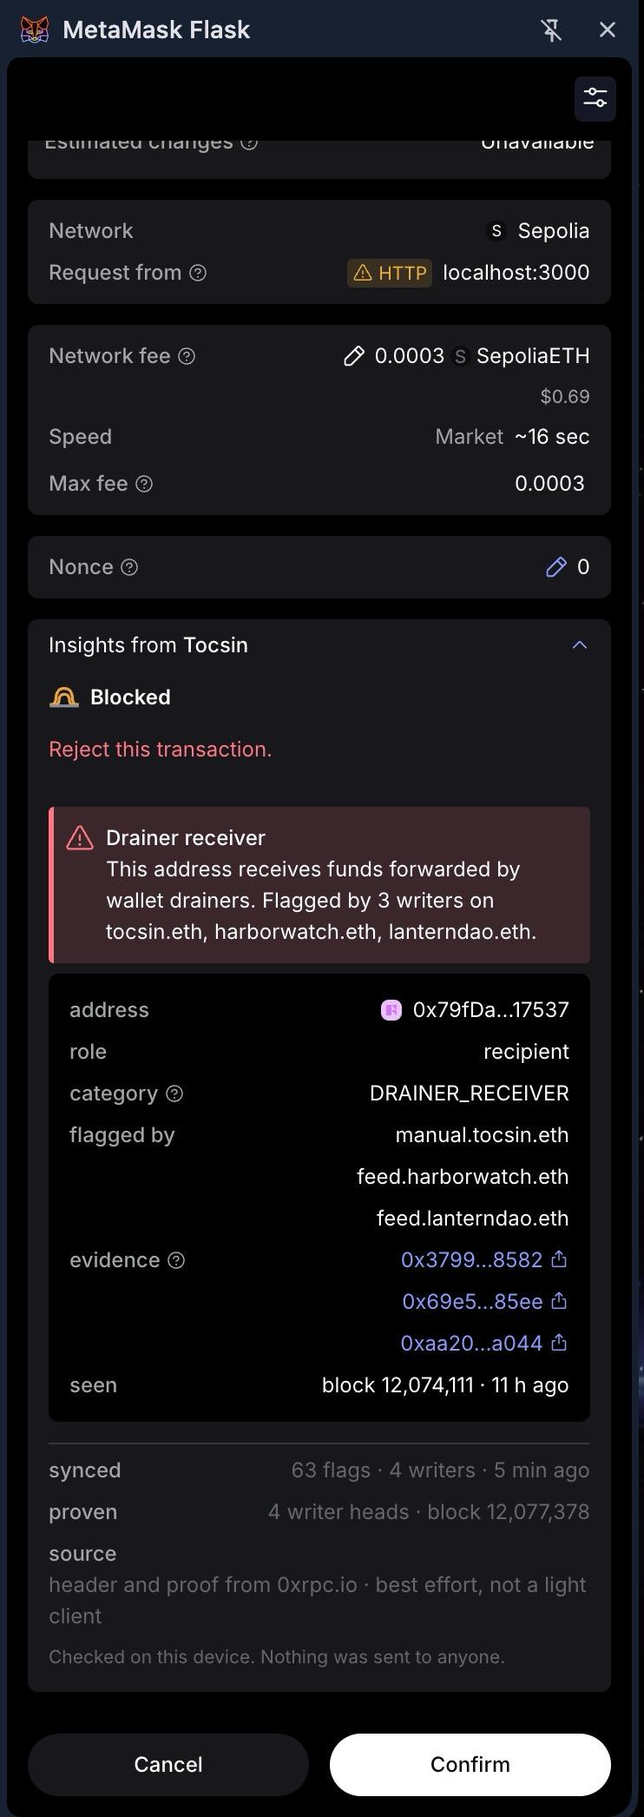
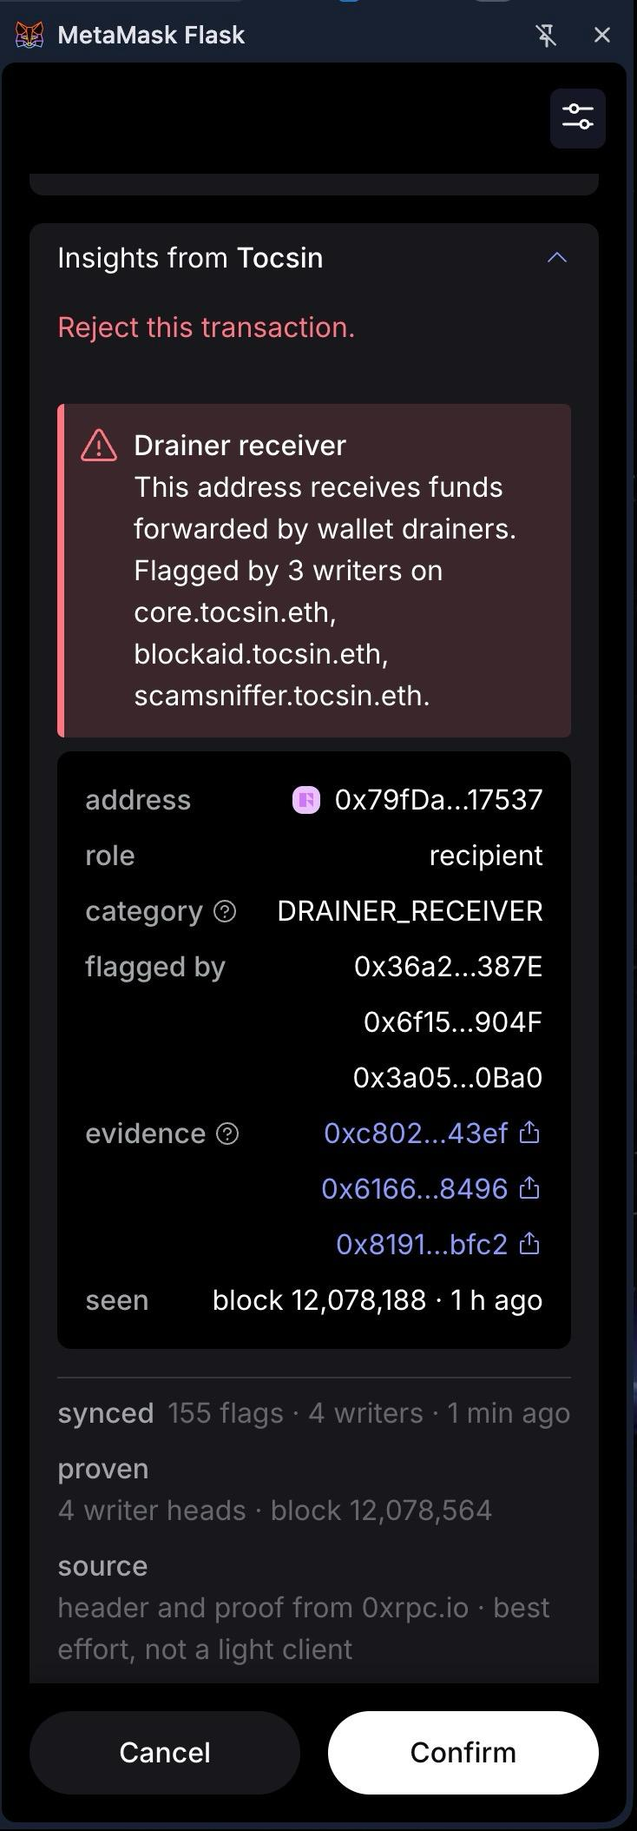
site: refresh showcase and wallet captures

diff --git a/design/kit/showcase.html b/design/kit/showcase.html
@@ -76,100 +76,111 @@
   .board.paper .sub { color: var(--ink-700); }
   .board.paper .top .label, .board.paper .foot { color: var(--ink-400); }
   .board.paper .pair figcaption { color: var(--ink-700); }
+
+  /* November 7 captures: original pixels, framed in CSS. */
+  .board { padding: 120px 96px; }
+  .top { top: 46px; }
+  .foot { bottom: 40px; font-size: 13px; gap: 30px; }
+  figure { margin: 0; }
+  figcaption { margin-top: 18px; font: 16px var(--mono); color: var(--paper-200); }
+  .capture { overflow: hidden; background: #111215; border-radius: 12px; }
+  .capture img { display: block; width: 100%; height: auto; transform: translateY(var(--y, 0)); }
+  .snap-hero { width: 430px; height: 760px; --y: -145px; }
+  .meta-line { margin-top: 40px; font: 15px var(--mono); color: var(--ink-400); }
+  .comparison { grid-template-columns: 440px 1fr; gap: 48px; }
+  .comparison h1 { font-size: 58px; }
+  .comparison .sub { font-size: 23px; }
+  .pair { gap: 28px; }
+  .pair .capture { width: 430px; height: 660px; }
+  .pair .pass-shot { --y: -420px; }
+  .pair .block-shot { --y: -148px; }
+  .pair figcaption { display: flex; align-items: center; gap: 12px; font-size: 15px; }
+  .status { width: 7px; height: 7px; display: inline-block; background: var(--paper-100); }
+  .status.block { background: var(--alert); }
+  .anatomy { grid-template-columns: 500px 1fr; gap: 100px; }
+  .anatomy .capture { width: 500px; height: 500px; --y: -590px; }
+  .anatomy h1 { font-size: 70px; margin-bottom: 36px; }
+  .co p { font-size: 21px; line-height: 1.4; color: var(--paper-200); max-width: 31ch; }
+  .co .label { margin-bottom: 6px; }
+  .kohaku { grid-template-columns: 1fr 600px; }
+  .kohaku h1 { font-size: 76px; }
+  .wallet-shot { width: 600px; position: relative; border-radius: 14px; overflow: hidden; background: #111; }
+  .wallet-shot img { position: absolute; display: block; max-width: none; height: auto; top: 0; }
+  .wallet-shot.warn { height: 796px; }
+  .wallet-shot.warn img { width: 238.139535%; left: -138.139535%; }
+  .wallet-shot.blocked { height: 742px; }
+  .wallet-shot.blocked img { width: 233.789954%; left: -133.789954%; }
+  .policy { margin-top: 42px; display: grid; gap: 16px; max-width: 520px; }
+  .policy-row { display: flex; justify-content: space-between; gap: 24px; padding-top: 16px; border-top: var(--hair-strong); color: var(--paper-200); font-size: 20px; }
+  .policy-row b { color: var(--signal); font-weight: 500; }
+  .policy-row .red { color: var(--alert); }
+  .board.demo { display: block; }
+  body.one .board.demo.on { display: block; }
+  .demo .intro { display: flex; align-items: end; justify-content: space-between; gap: 64px; margin: 14px 0 24px; }
+  .demo h1 { font-size: 58px; }
+  .demo .sub { font-size: 21px; max-width: 34ch; margin: 0; }
+  .demo-screens { display: grid; grid-template-columns: 960px 1fr; gap: 32px; align-items: center; }
+  .demo-main img, .demo-side img { display: block; width: 100%; height: auto; border-radius: 10px; }
+  .demo-side p { font-size: 20px; line-height: 1.45; color: var(--paper-200); margin: 24px 0 0; }
+  .demo-side .label { margin-bottom: 16px; }
+  .demo-side .url { color: var(--signal); font-family: var(--mono); font-size: 15px; overflow-wrap: anywhere; margin-top: 28px; }
+
 </style>
 </head>
 <body>
 
-<!-- 01 cover: the moment the wallet says no -->
 <section class="board" data-b="1">
   <canvas class="field" data-state="blocked"></canvas>
-  <div class="top"><span class="wordmark"><img src="mark.svg" alt="">tocsin</span><span class="label">01 / 06 · Sepolia demo · example writers</span></div>
-  <div>
-    <h1 style="font-size:84px">Scam warnings,<br>verified <em>on chain.</em></h1>
-    <p class="sub">Choose whose reports to follow. Verify the published record. Check recipients on your device before you sign.</p>
-  </div>
-  <div class="panel" style="--y:-440px"><img src="../screens/raw/snap-block.jpg?v=3" alt="MetaMask Flask transaction insight from Tocsin: Blocked, drainer receiver"></div>
-  <div class="chip" style="right: 56px; top: 150px"><div class="label">flagged by</div><div class="v">Example writer identities</div></div>
-  <div class="chip" style="right: 520px; bottom: 150px"><div class="label">checked</div><div class="v">Recipient checked locally</div></div>
-  <div class="foot"><span>tocsin-eth.vercel.app/demo</span><span>github.com/easonchai/tocsin</span></div>
+  <div class="top"><span class="wordmark"><img src="mark.svg" alt="">tocsin</span><span class="label">01 / 06 · MetaMask Snap · Sepolia</span></div>
+  <div><h1 style="font-size:84px">Scam warnings.<br>Before you<br><em>sign.</em></h1><p class="sub">An onchain report registry, trust lists you choose, and a warning inside your wallet.</p><div class="meta-line">Real capture · MetaMask Flask + Tocsin Snap</div></div>
+  <div class="capture snap-hero"><img src="../screens/raw/snap-block.jpg?v=4" width="734" height="2108" alt="Tocsin's drainer-receiver warning in MetaMask Flask, with writers and evidence links"></div>
+  <div class="foot"><span>Sepolia demo · example publisher names · RPC-supplied headers</span><span>tocsin.eth</span></div>
 </section>
-
-<!-- 02 pass vs block -->
-<section class="board" data-b="2" style="grid-template-columns: 1fr auto; padding-top: 120px">
+<section class="board comparison" data-b="2">
   <canvas class="field" data-state="idle"></canvas>
-  <div class="top"><span class="wordmark"><img src="mark.svg" alt="">tocsin</span><span class="label">02 / 06 · same send, two recipients</span></div>
-  <div>
-    <h1 style="font-size:52px">Same send.<br>Lists <em>you</em> chose.<br>One verdict.</h1>
-    <p class="sub">The wallet checks a locally synced log against your chosen lists. No per-address security lookup is needed; syncing still uses the network.</p>
-  </div>
+  <div class="top"><span class="wordmark"><img src="mark.svg" alt="">tocsin</span><span class="label">02 / 06 · two recipients, two results</span></div>
+  <div><h1>Same wallet.<br>Same lists.<br>Different<br><em>recipients.</em></h1><p class="sub">The Snap checks the recipient against your synced reports. It shows a warning when your chosen sources flag an address.</p><div class="meta-line">No matching report ≠ a safety guarantee.</div></div>
   <div class="pair">
-    <figure><div class="panel sm" style="--y:-600px"><img src="../screens/raw/snap-pass.jpg?v=3" alt="No flags"></div><figcaption><b class="pass">Pass</b>no matching flag</figcaption></figure>
-    <figure><div class="panel sm" style="--y:-390px"><img src="../screens/raw/snap-block.jpg?v=3" alt="Blocked"></div><figcaption><b class="block">Block</b>drainer receiver</figcaption></figure>
+    <figure><div class="capture pass-shot"><img src="../screens/raw/snap-pass.jpg?v=4" width="740" height="2090" alt="MetaMask Snap: recipient is not on any list the user follows"></div><figcaption><span class="status"></span>No matching flag</figcaption></figure>
+    <figure><div class="capture block-shot"><img src="../screens/raw/snap-block.jpg?v=4" width="734" height="2108" alt="MetaMask Snap advises rejecting a transaction to a reported drainer receiver"></div><figcaption><span class="status block"></span>Reject recommendation</figcaption></figure>
   </div>
-  <div class="foot"><span>Illustrative Snap screens · example writers</span><span>tocsin.eth</span></div>
+  <div class="foot"><span>Sepolia captures · example publisher names · RPC-supplied headers</span><span>tocsin.eth</span></div>
 </section>
-
-<!-- 03 anatomy of a flag -->
-<section class="board" data-b="3" style="grid-template-columns: auto 1fr; gap: 96px">
+<section class="board anatomy" data-b="3">
   <canvas class="field" data-state="idle"></canvas>
-  <div class="top"><span class="wordmark"><img src="mark.svg" alt="">tocsin</span><span class="label">03 / 06 · one flag, opened</span></div>
-  <div class="panel" style="--y:-700px; height: 600px"><img src="../screens/raw/snap-block.jpg?v=3" alt="Flag detail"></div>
-  <div class="callouts">
-    <h1 style="font-size:82px;margin-bottom:12px">Every flag carries<br>its receipts.</h1>
-    <div class="co"><div class="label">who said it</div><p>Each report is attributed to its writer. <span>The names in this demo are examples.</span></p></div>
-    <div class="co"><div class="label">why</div><p>A category your wallet understands: drainer receiver. <span>Warn or block is your policy, not ours.</span></p></div>
-    <div class="co"><div class="label">proof</div><p>Evidence links let you inspect the source. <span>Proof of publication does not prove a report is true.</span></p></div>
-    <div class="co"><div class="label">when</div><p>The report records when it was seen. <span>Published flags remain in the append-only log.</span></p></div>
-  </div>
-  <div class="foot"><span>tocsin.eth · sepolia</span><span>github.com/easonchai/tocsin</span></div>
+  <div class="top"><span class="wordmark"><img src="mark.svg" alt="">tocsin</span><span class="label">03 / 06 · inspect the report</span></div>
+  <figure><div class="capture"><img src="../screens/raw/snap-block.jpg?v=4" width="734" height="2108" alt="Report details: recipient, drainer-receiver category, writer addresses, evidence transactions and observed block"></div><figcaption>Actual Snap report details · Sepolia</figcaption></figure>
+  <div><h1>A warning you<br>can <em>inspect.</em></h1><div class="callouts">
+    <div class="co"><div class="label">Who reported it</div><p>Writer addresses identify the sources behind the warning.</p></div>
+    <div class="co"><div class="label">What was reported</div><p>A specific address, its role in this transaction, and a threat category.</p></div>
+    <div class="co"><div class="label">Supporting evidence</div><p>Transaction links let you investigate the report yourself.</p></div>
+    <div class="co"><div class="label">When it was seen</div><p>The block number records when the activity was observed.</p></div>
+  </div></div>
+  <div class="foot"><span>Proof of publication does not prove an accusation true.</span><span>github.com/easonchai/tocsin</span></div>
 </section>
-
-<!-- 04 trust lists -->
-<section class="board" data-b="4">
+<section class="board kohaku" data-b="4">
   <canvas class="field" data-state="idle"></canvas>
-  <div class="top"><span class="wordmark"><img src="mark.svg" alt="">tocsin</span><span class="label">04 / 06 · trust lists on ens</span></div>
-  <div>
-    <h1 style="font-size:78px">You pick who gets<br>to ring the <em>bell</em>.</h1>
-    <p class="sub">An ENS text record points to a signed trust list. Your wallet verifies its signature and applies the writer weights you chose.</p>
-  </div>
-  <div class="lists">
-    <div class="label">Illustrative policy · your choices</div>
-    <div class="lcard"><div class="name">One writer reports</div><div class="who">An ordinary writer contributes one vote</div><div class="w">Warn</div></div>
-    <div class="lcard"><div class="name">Two independent writers</div><div class="who">Two ordinary writers agree on the address</div><div class="w">Block</div></div>
-    <div class="lcard"><div class="name">Same source, two lists</div><div class="who">Following it twice adds no extra vote</div><div class="w">Counts once</div></div>
-    <div class="lcard me"><div class="name">Chosen blocking writer</div><div class="who">You explicitly give this writer block weight</div><div class="w">Blocks alone</div></div>
-  </div>
-  <div class="foot"><span>Signed lists · ENS lookup · Sepolia prototype</span><span>tocsin.eth</span></div>
+  <div class="top"><span class="wordmark"><img src="mark.svg" alt="">tocsin</span><span class="label">04 / 06 · Kohaku · warning policy</span></div>
+  <div><h1>Context changes<br>the <em>decision.</em></h1><p class="sub">Theft proceeds trigger a warning in this send policy. Kohaku shows the category and evidence, then leaves the decision with you.</p><div class="policy"><div class="label">Outcomes shown in this demo</div><div class="policy-row"><span>Reported drainer receiver</span><b class="red">Block</b></div><div class="policy-row"><span>Theft proceeds</span><b>Warn</b></div></div></div>
+  <div class="wallet-shot warn"><img src="../screens/raw/kohaku-theft-warn.jpg" width="2560" height="1605" alt="Kohaku shows a theft-proceeds warning and keeps its Sign action available"></div>
+  <div class="foot"><span>Sepolia capture · example publisher names · RPC-supplied headers</span><span>tocsin.eth</span></div>
 </section>
-
-<!-- 05 the demo page -->
-<section class="board" data-b="5" style="grid-template-columns: 1fr auto; gap: 56px">
+<section class="board demo" data-b="5">
   <canvas class="field" data-state="idle"></canvas>
-  <div class="top"><span class="wordmark"><img src="mark.svg" alt="">tocsin</span><span class="label">05 / 06 · try it</span></div>
-  <div>
-    <h1 style="font-size:52px">Six scenarios.<br>See the <em>decision.</em></h1>
-    <p class="sub">Explore six Sepolia scenarios, including pass, warn and block outcomes. Pick one and compare the explanation with the Snap response.</p>
-    <p class="sub" style="font-family:var(--mono);font-size:20px;color:var(--signal)">tocsin-eth.vercel.app/demo</p>
+  <div class="top"><span class="wordmark"><img src="mark.svg" alt="">tocsin</span><span class="label">05 / 06 · the demo and the wallet</span></div>
+  <div class="intro"><h1>Follow the report.<br>See the <em>response.</em></h1><p class="sub">Choose a scenario in the demo. Compare its explanation with the actual response inside MetaMask.</p></div>
+  <div class="demo-screens">
+    <figure class="demo-main"><img src="../screens/raw/snap-demo-block.jpg" width="2560" height="1577" alt="Full Sepolia demo with a reported drainer recipient and the corresponding MetaMask Snap warning"><figcaption>Reported recipient → Snap recommends rejecting</figcaption></figure>
+    <div class="demo-side"><div class="label">A different recipient</div><img src="../screens/raw/snap-demo-pass.jpg" width="2560" height="1567" alt="The demo and MetaMask Snap show no matching report for the demo account"><p>The same lists return no matching flag for the demo account.</p><p class="url">tocsin-eth.vercel.app/demo</p></div>
   </div>
-  <div class="browser"><div class="bar"><i></i><i></i><i></i><span>Prototype UI · example writers</span></div><img src="../screens/demo-page-final.png" alt="Prototype demo layout with illustrative writer identities and proof flow"></div>
-  <div class="foot"><span>sepolia · metamask flask + tocsin snap</span><span>github.com/easonchai/tocsin</span></div>
+  <div class="foot"><span>Left: demo illustration. Right: actual Snap; its header source is RPC.</span><span>Example publisher names</span></div>
 </section>
-
-<!-- 06 integration roles and current status -->
-<section class="board" data-b="6">
-  <canvas class="field" data-state="idle"></canvas>
-  <div class="top"><span class="wordmark"><img src="mark.svg" alt="">tocsin</span><span class="label">06 / 06 · integration prototype</span></div>
-  <div>
-    <h1 style="font-size:82px">A wallet that can<br>check the <em>record.</em></h1>
-    <p class="sub">Local recipient checks are one part. Private requests and independent verification each have their own role.</p>
-    <p class="sub">Today’s demo trusts an RPC-supplied header. Full consensus verification is the next step.</p>
-  </div>
-  <div class="lists roles">
-    <div class="lcard"><div class="name">Kohaku</div><div class="who">Wallet integration prototype: bring the reader into the signing flow.</div></div>
-    <div class="lcard"><div class="name">Anon-RPC</div><div class="who">Private request transport: reduce what the RPC can learn about who is asking.</div></div>
-    <div class="lcard me"><div class="name">Light-client verification</div><div class="who">Verify the Ethereum header independently, then check the log against it. Full consensus proof path next.</div></div>
-  </div>
-  <div class="foot"><span>Sepolia prototype · integration work in progress</span><span>github.com/easonchai/tocsin</span></div>
+<section class="board kohaku" data-b="6">
+  <canvas class="field" data-state="blocked"></canvas>
+  <div class="top"><span class="wordmark"><img src="mark.svg" alt="">tocsin</span><span class="label">06 / 06 · Kohaku · swap recipient</span></div>
+  <div><h1>Check where<br>the swap<br><em>really sends.</em></h1><p class="sub">The transaction calls a router. Tocsin checks the recipient inside the swap and finds a reported drainer receiver.</p><p class="sub">Kohaku shows the evidence and disables signing for this blocked transaction.</p><div class="meta-line">SwapRouter02 → recipient → wallet verdict</div></div>
+  <div class="wallet-shot blocked"><img src="../screens/raw/kohaku-swap-block.jpg" width="2560" height="1581" alt="Kohaku blocks a swap to a drainer receiver, shows evidence and disables Sign"></div>
+  <div class="foot"><span>Sepolia capture · RPC traffic through the Tor Anon-RPC worker</span><span>RPC-supplied headers</span></div>
 </section>
 
 <script src="ringfield.js"></script>
@@ -181,9 +192,9 @@
   document.querySelectorAll('.board').forEach(function (sec, i) {
     if (b && !sec.classList.contains('on')) return;
     var c = sec.querySelector('.field');
-    var rf = Tocsin.ringfield(c, { seed: 7 + i, state: c.dataset.state, mask: 'h1, .sub, .top, .foot, .co, .lcard, .pair figcaption, .chip' });
+    var rf = Tocsin.ringfield(c, { seed: 7 + i, state: c.dataset.state, mask: 'h1, .sub, .top, .foot, .co, .policy, figcaption, .meta-line, .demo-side' });
     window.fields.push(rf);
-    var t = sec.querySelector('.panel, .pair, .lists, .browser'); var r = t.getBoundingClientRect(), s = sec.getBoundingClientRect();
+    var t = sec.querySelector('.capture, .wallet-shot, .demo-screens'); var r = t.getBoundingClientRect(), s = sec.getBoundingClientRect();
     setTimeout(function () { rf.strike(r.left - s.left + r.width / 2, r.top - s.top + r.height / 2); }, 200);
   });
 </script>

diff --git a/site/style.css b/site/style.css
@@ -87,7 +87,7 @@ a.more:hover { color: var(--paper-200); }
 /* what leaks: the table and the Snap screenshot */
 .leaks { display: grid; grid-template-columns: 1fr auto; gap: 64px; align-items: start; }
 .phone { width: min(420px, 100%); height: 520px; overflow: hidden; border: var(--hair-strong); border-radius: 18px; background: var(--ink-800); justify-self: end; }
-.phone img { width: 100%; display: block; transform: translateY(-37.2%); }
+.phone img { width: 100%; display: block; transform: translateY(-11.3852%); }
 
 /* the trace terminal: translucent, so the field and its ripple show through */
 .term { background: rgba(18,20,23,.8); border: var(--hair-strong); border-radius: var(--r); font-family: var(--mono); font-size: 13px; line-height: 1.6; width: 100%; max-width: 580px; }
@@ -251,7 +251,7 @@ a:focus-visible, button:focus-visible { outline: 2px solid var(--signal); outlin
 
 /* Keep the original left-hand ledger / right-hand wallet, aligned at the top. */
 .privacy { background: var(--ink-900); }
-.privacy-layout { display: grid; grid-template-columns: minmax(0,1fr) minmax(0,420px); align-items: start; gap: 80px; }
+.privacy-layout { display: grid; grid-template-columns: minmax(0,1fr) minmax(0,360px); align-items: start; gap: 80px; }
 .privacy-comparison { border-top: var(--hair-strong); }
 .privacy-row { padding: 24px 0; border-bottom: var(--hair); }
 .privacy-row:first-child { padding-top: 20px; }
@@ -260,7 +260,7 @@ a:focus-visible, button:focus-visible { outline: 2px solid var(--signal); outlin
 .privacy-row.local .label { color: var(--signal); }
 .wallet-preview { margin: 0; width: 100%; }
 .preview-label { margin-bottom: 16px; }
-.phone { width: 100%; height: 520px; }
+.phone { display: block; width: 100%; height: auto; aspect-ratio: 734 / 1310; }
 .phone img { height: auto; }
 .wallet-preview figcaption { font-size: 12px; line-height: 1.6; color: var(--ink-400); margin-top: 16px; max-width: 48ch; }
 .integration-grid { display: grid; grid-template-columns: repeat(3,minmax(0,1fr)); gap: 32px; }
@@ -268,6 +268,15 @@ a:focus-visible, button:focus-visible { outline: 2px solid var(--signal); outlin
 .integration h3 { font-size: 28px; margin-top: 28px; }
 .integration p { font-size: 15px; line-height: 1.6; color: var(--paper-200); margin: 16px 0 24px; }
 .integration .text-link { margin-top: auto; }
+.kohaku-previews { display: grid; grid-template-columns: repeat(2,minmax(0,1fr)); gap: 24px 32px; margin-top: 48px; }
+.kohaku-previews figure { margin: 0; min-width: 0; }
+.kohaku-crop { display: block; overflow: hidden; border: var(--hair-strong); border-radius: var(--r); background: var(--ink-900); aspect-ratio: 1095 / 1360; }
+.kohaku-crop img { display: block; max-width: none; width: 233.789954%; height: auto; margin-left: -133.789954%; }
+.kohaku-crop.theft { aspect-ratio: 1075 / 1460; }
+.kohaku-crop.theft img { width: 238.139535%; margin-left: -138.139535%; }
+.kohaku-previews figcaption, .capture-note { font-size: 12px; line-height: 1.6; color: var(--ink-400); margin: 16px 0 0; }
+.kohaku-previews figcaption strong { color: var(--paper-200); font-weight: 500; }
+.capture-note { grid-column: 1 / -1; margin: 0; }
 .build-status { display: grid; grid-template-columns: 160px 1fr; gap: 24px; border-top: var(--hair-strong); padding-top: 24px; margin-top: 48px; }
 .build-status p { font-size: 13px; line-height: 1.7; color: var(--paper-200); margin: 0; max-width: 95ch; }
 .build-status strong { font-weight: 500; color: var(--paper-100); }
@@ -308,8 +317,9 @@ a:focus-visible, button:focus-visible { outline: 2px solid var(--signal); outlin
   .trust-visual { min-height: 0; flex: none; }
   .trust-foot { align-items: flex-start; flex-direction: column; gap: 16px; }
   .privacy-layout { gap: 40px; }
-  .wallet-preview { max-width: 420px; justify-self: start; }
+  .wallet-preview { max-width: 360px; justify-self: start; }
   .integration-grid { gap: 40px; }
+  .kohaku-previews { grid-template-columns: 1fr; max-width: 560px; gap: 32px; }
   .integration h3 { margin-top: 20px; }
   .build-status { grid-template-columns: 1fr; gap: 16px; }
   .closing { padding-top: 32px; }

diff --git a/site/index.html b/site/index.html
@@ -217,8 +217,8 @@
     </div>
     <figure class="wallet-preview">
       <div class="preview-label label">The warning, inside your wallet</div>
-      <div class="phone"><img src="../design/screens/raw/snap-block.jpg?v=3" width="742" height="2092" loading="lazy" alt="Illustrative Tocsin Snap warning showing a blocked drainer receiver, the flagging writers and evidence links"></div>
-      <figcaption>Snap UI example. The category, writers and evidence stay visible beside the verdict.</figcaption>
+      <a class="phone" href="../design/screens/raw/snap-block.jpg" aria-label="Open the full Sepolia Snap capture"><img src="../design/screens/raw/snap-block.jpg" width="734" height="2108" loading="lazy" alt="Tocsin Snap Sepolia capture showing a drainer-receiver warning, writers and evidence"></a>
+      <figcaption>Sepolia Snap capture with example publisher names. Select the image for the full report, sync status and header source.</figcaption>
     </figure>
   </div>
 </section>
@@ -232,6 +232,17 @@
     <article class="integration"><div class="label">Wallets</div><h3>Kohaku</h3><p>Our integration brings Tocsin checks into Kohaku's send and signing flows, with list and RPC settings inside the wallet.</p><a class="text-link" href="https://github.com/easonchai/tocsin/tree/feat/kohaku/dapp/packages/kohaku">Explore the integration ↗</a></article>
     <article class="integration"><div class="label">Private Transports</div><h3>Anon-RPC</h3><p>Routes Tocsin's reads through Tor or Nym to reduce the link between your device and its requests. Privacy for the connection; verification for the response.</p><a class="text-link" href="https://github.com/easonchai/tocsin/tree/feat/kohaku/dapp/packages/kohaku#anon-rpc">See the transport setup ↗</a></article>
     <article class="integration"><div class="label">Clients</div><h3>Ethereum light clients</h3><p>An independently verified block anchors the record. A compromised RPC cannot pass off altered data as matching that block's state.</p><a class="text-link" href="https://github.com/easonchai/tocsin/blob/main/docs/spec/threat-flag-log.md#light-client-read-procedure">Read the verification path ↗</a></article>
+  </div>
+  <div class="kohaku-previews">
+    <figure>
+      <a class="kohaku-crop swap" href="../design/screens/raw/kohaku-swap-block.jpg" aria-label="Open the full Kohaku blocked-swap capture"><img src="../design/screens/raw/kohaku-swap-block.jpg" width="2560" height="1581" loading="lazy" alt="Kohaku on Sepolia blocks a swap whose recipient is flagged as a drainer receiver, with writers, evidence and header source visible"></a>
+      <figcaption><strong>Swap recipient blocked.</strong> Kohaku checks the decoded recipient before signing.</figcaption>
+    </figure>
+    <figure>
+      <a class="kohaku-crop theft" href="../design/screens/raw/kohaku-theft-warn.jpg" aria-label="Open the full Kohaku theft-proceeds capture"><img src="../design/screens/raw/kohaku-theft-warn.jpg" width="2560" height="1605" loading="lazy" alt="Kohaku on Sepolia warns about a theft-proceeds recipient, with evidence and the RPC-supplied header source visible"></a>
+      <figcaption><strong>Theft proceeds warning.</strong> This category warns while leaving the decision to the sender.</figcaption>
+    </figure>
+    <p class="capture-note">Sepolia demo captures; publisher names are examples. Select either image for the full capture.</p>
   </div>
   <div class="build-status"><div class="label">Today on Sepolia</div><p>The log, signed ENS lists and reader are built, with Snap, browser-extension and Kohaku demo integrations. <strong>The current demo still trusts an RPC for the threat-log header.</strong> Helios verifies the Anon-RPC worker's published hash; connecting independent consensus verification to Tocsin's own proofs is the next step.</p></div>
 </section>

diff --git a/design/README.md b/design/README.md
@@ -83,10 +83,13 @@ The November 6 landing refinement preserves the original low-set hero, floating 
 The trust-list section pairs three selectable steps with simple coded diagrams: a name resolves to a list, a pinned signer checks updates, and independent reports combine into a verdict. It advances every nine seconds, with a thin amber progress line. Clicking a step resets its timer and continues playback; keyboard navigation, the pause button and leaving the viewport stop it. Reduced-motion visitors start in manual mode with completed diagrams. On phones, the steps become compact tabs above the example.
 
 - `screens/cover-1280x720.png`: refreshed 1280×720 cover, also copied by `site/build.sh` to `dist/og.png`.
-- `screens/showcase-01.png` through `showcase-06.png`: refreshed 1600×1000 gallery boards. Source: `kit/showcase.html?b=1` through `?b=6`.
+- `screens/showcase-01.png` through `showcase-06.png`: 1600×1000 gallery boards, refreshed November 7 with the supplied MetaMask Flask and Kohaku captures. Source: `kit/showcase.html?b=1` through `?b=6`.
 - `screens/landing-hero.png`: current desktop landing-page capture.
 - `screens/logo-512.png`: existing finished icon, unchanged.
-- The Snap captures and `screens/demo-page-final.png` remain example UI. The gallery labels those examples; they are not evidence of a live hosted demo or external publisher participation.
+- `screens/raw/` contains the six unchanged November 7 source captures: `snap-block.jpg`, `snap-pass.jpg`, `snap-demo-block.jpg`, `snap-demo-pass.jpg`, `kohaku-swap-block.jpg` and `kohaku-theft-warn.jpg`. Gallery and website crops are CSS only. Publisher names remain demo examples, not external partnerships. The wallet captures identify RPC-supplied headers; the explanatory demo diagram is not evidence of independent consensus verification.
+- `screens/demo-page-final.png` and the older demo-page captures are historical mockups. They are no longer used in the current gallery or site build.
+
+The six upload boards now cover: (1) Snap warning, (2) two-recipient comparison, (3) report details, (4) Kohaku theft-proceeds warning, (5) demo plus actual Snap responses, and (6) Kohaku blocked swap recipient. All six PNG exports have been regenerated from the updated template. The website uses the current Snap capture and both Kohaku captures, with links to the complete source images.
 
 To export the cover, serve the repo root, load `kit/cover.html` at 1280×720, wait for local fonts, and capture `#cover`. For gallery boards, use a 1600×1000 viewport and capture `.board.on`. Reduced-motion mode provides a stable dot field. The build copies these PNGs; it does not regenerate them.
 
